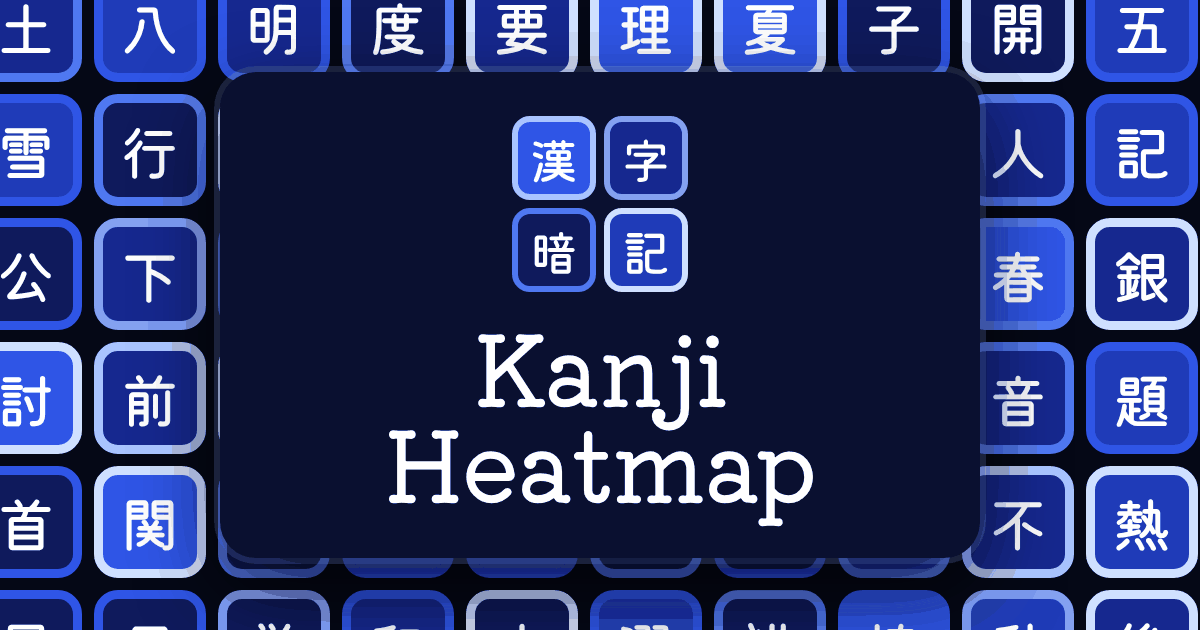
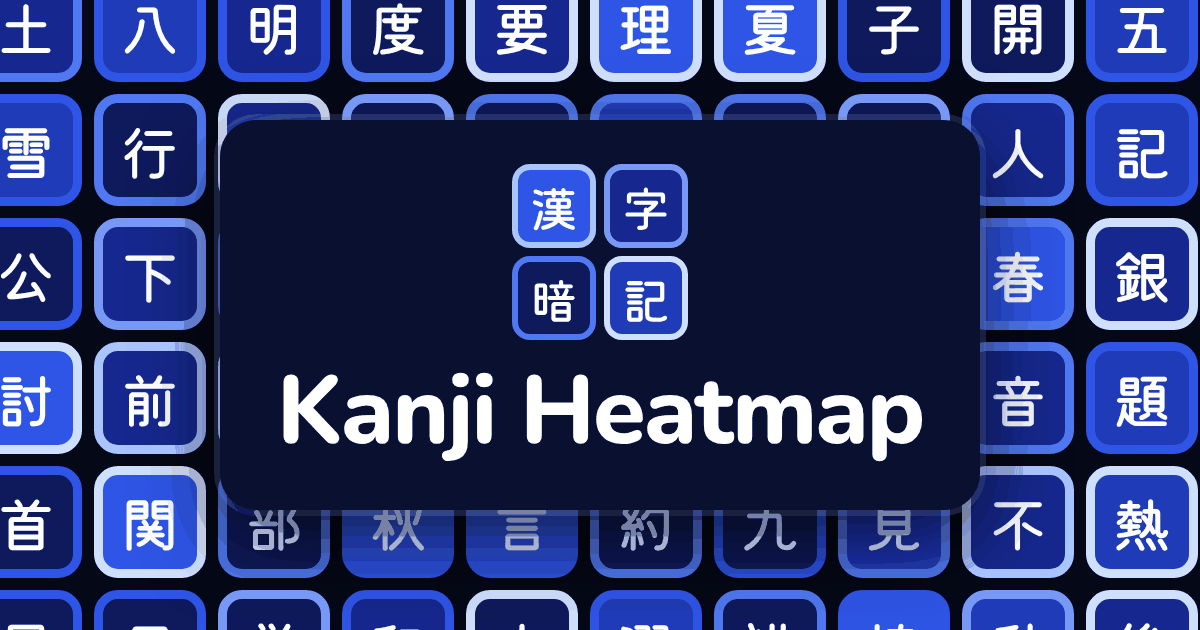
Use Nunito for English text in social previews, Kiwi Maru for Japanese
Claude-Session: https://claude.ai/code/session_01MwDDzvhHzrczhDK3zGpNbE

diff --git a/docs/social-preview/common.css b/docs/social-preview/common.css
@@ -4,10 +4,9 @@
   src: url("../../node_modules/@fontsource/kiwi-maru/files/kiwi-maru-japanese-500-normal.woff2");
 }
 @font-face {
-  font-family: "Kiwi";
-  font-weight: 500;
-  unicode-range: U+0000-00FF, U+2000-206F;
-  src: url("../../node_modules/@fontsource/kiwi-maru/files/kiwi-maru-latin-500-normal.woff2");
+  font-family: "Nunito";
+  font-weight: 800;
+  src: url("../../node_modules/@fontsource/nunito/files/nunito-latin-800-normal.woff2");
 }
 * {
   box-sizing: border-box;
@@ -26,11 +25,9 @@ body {
   font-weight: 500;
 }
 h1,
-.logo,
-.big,
-.k,
 .pill {
-  font-weight: 500 !important;
+  font-family: "Nunito", "Kiwi", sans-serif;
+  font-weight: 800;
 }
 .tile {
   display: flex;
